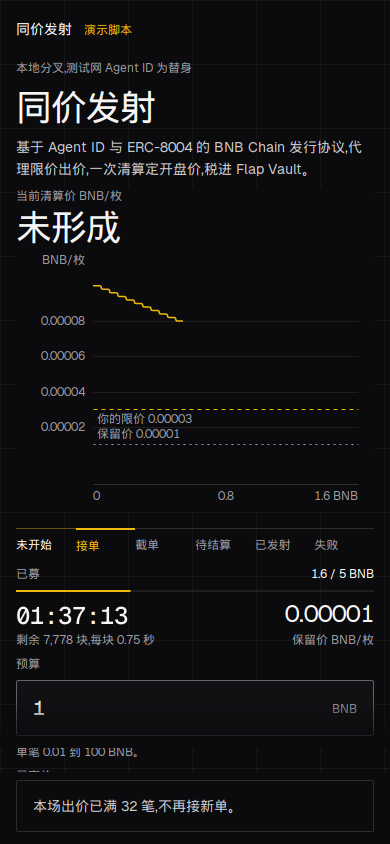
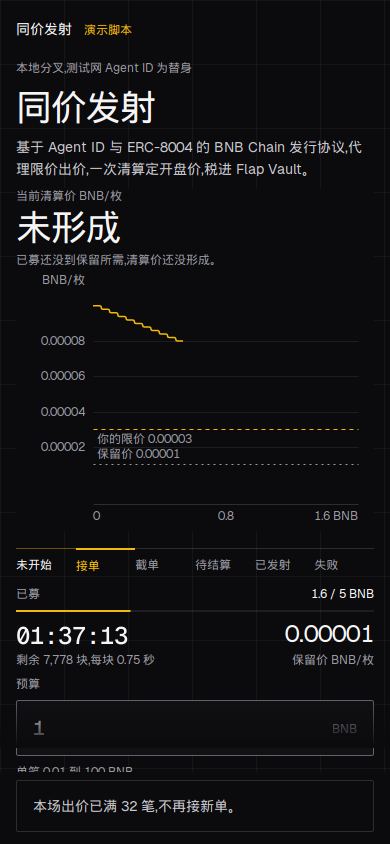
Say why a book of bids can still have no clearing price.
When the raised amount has not reached the reserve, the big figure stays 未形成 and a line under it says the reserve has not been met.

diff --git a/web/src/App.tsx b/web/src/App.tsx
@@ -791,6 +791,9 @@ export function App() {
                     {failed ? "没有成交" : phase === "wait" ? "未形成" : clearingNow > 0n ? <Roller text={formatPrice(clearingNow)} /> : "未形成"}
                   </div>
                   {failed && <p className="fail-line"><Zh text="未达保留价，出价全额退回。" /></p>}
+                  {clearingNow === 0n && snap.bids.length > 0 && !failed && phase !== "wait" && (
+                    <p className="fail-line">已募还没到保留所需，清算价还没形成。</p>
+                  )}
                 </div>
                 <div className="axis-note">{params.get("preview") ? "画面预览。链上这场不是这个阶段。" : ""}</div>
               </div>
